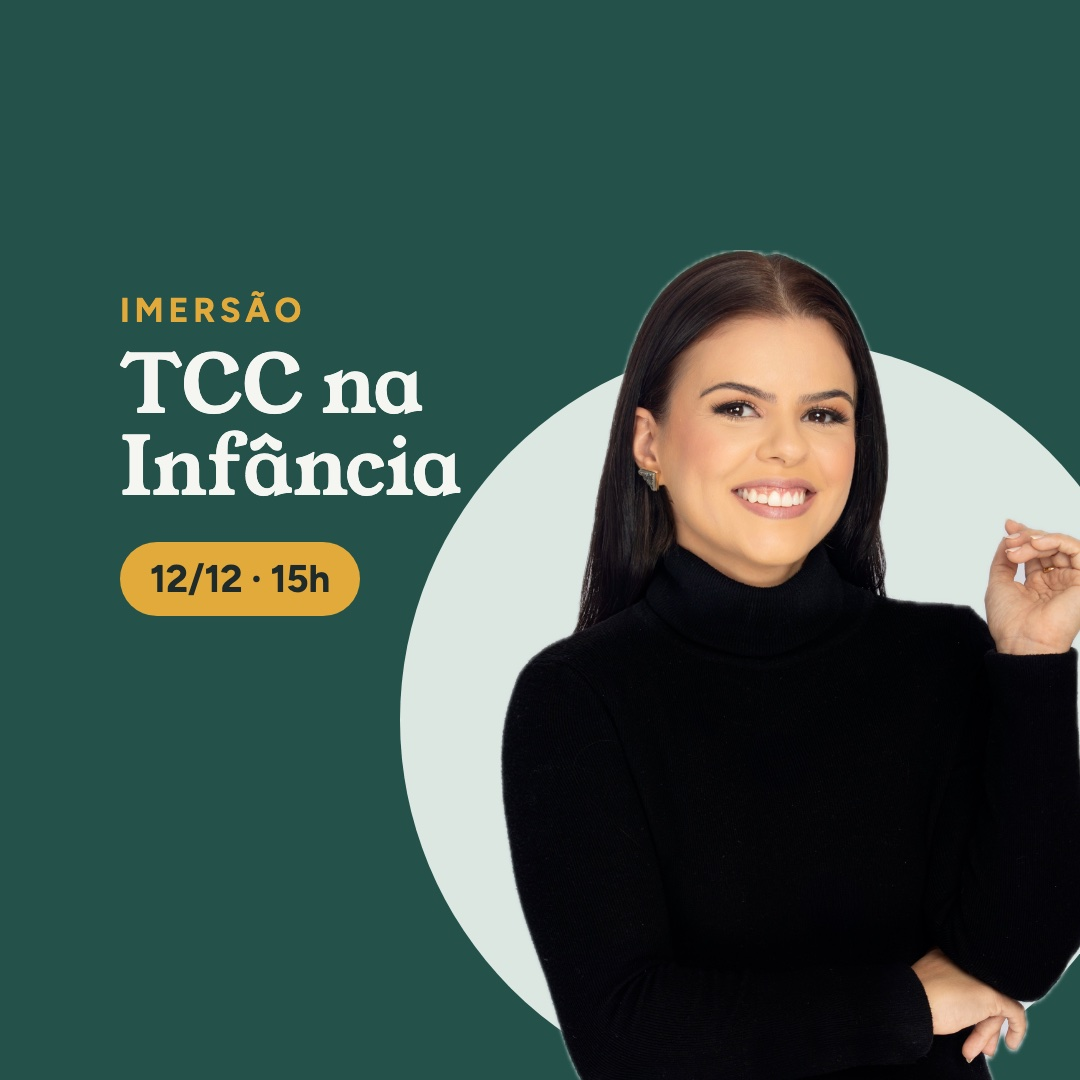
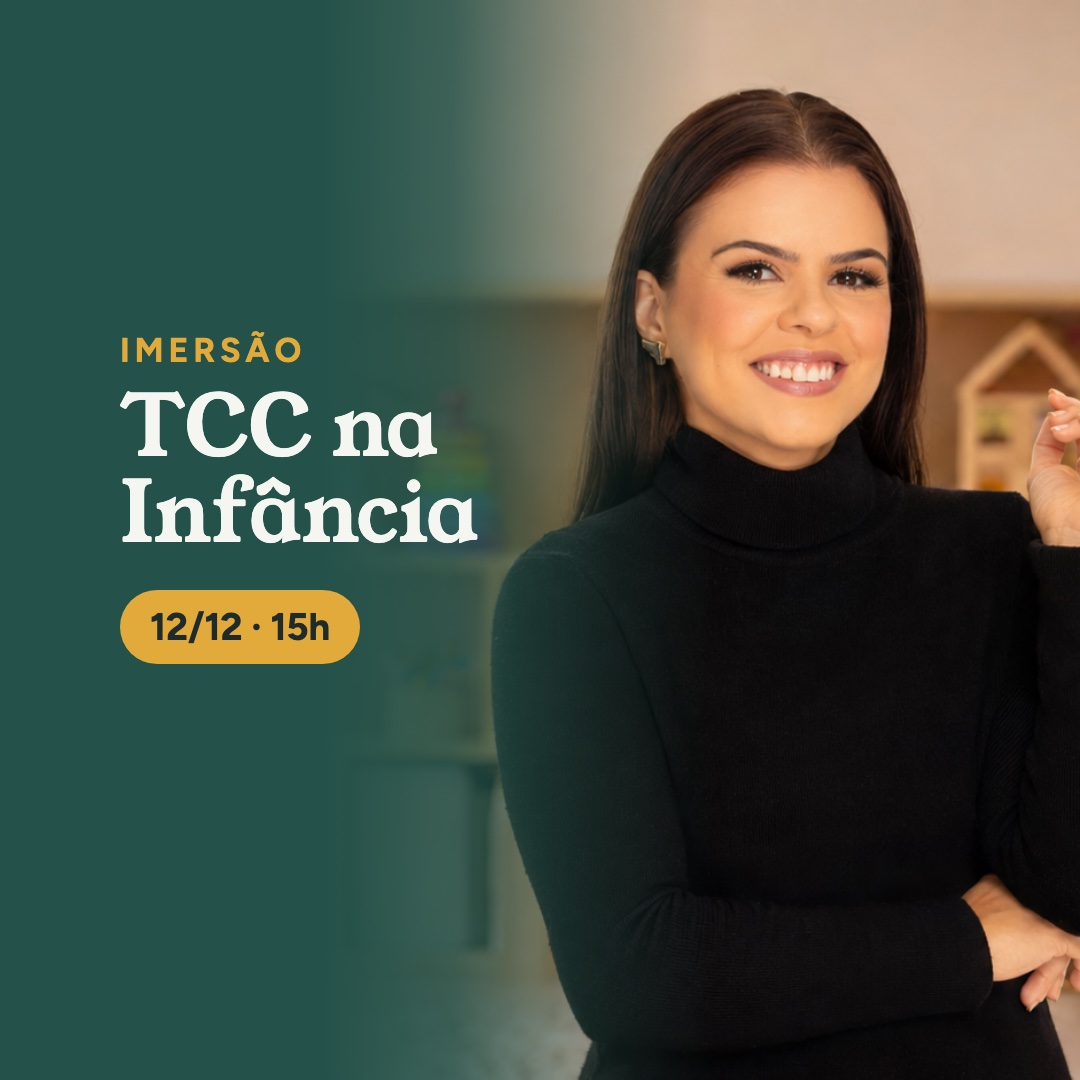
Botao para o checkout personalizado e nova imagem de compartilhamento

diff --git a/imersao/index.html b/imersao/index.html
@@ -364,7 +364,7 @@ footer{padding-block:32px;font-size:14px;color:var(--muted);text-align:center}
           <span class="when">12/12 · 15h · ao vivo</span>
           <span class="from">De <s>R$ 147,00</s> por</span>
           <div class="price"><small>R$</small>47</div>
-          <a class="btn" href="https://pay.hotmart.com/G108664193A?off=xy1nqbel" data-checkout="https://pay.hotmart.com/G108664193A?off=xy1nqbel">Garantir minha vaga</a>
+          <a class="btn" href="https://pay.hotmart.com/G108664193A?off=xy1nqbel&amp;checkoutMode=10" data-checkout="https://pay.hotmart.com/G108664193A?off=xy1nqbel&amp;checkoutMode=10">Garantir minha vaga</a>
           <p>Pagamento pela Hotmart. Os dados para a nota fiscal são pedidos no checkout.</p>
         </div>
       </div>
